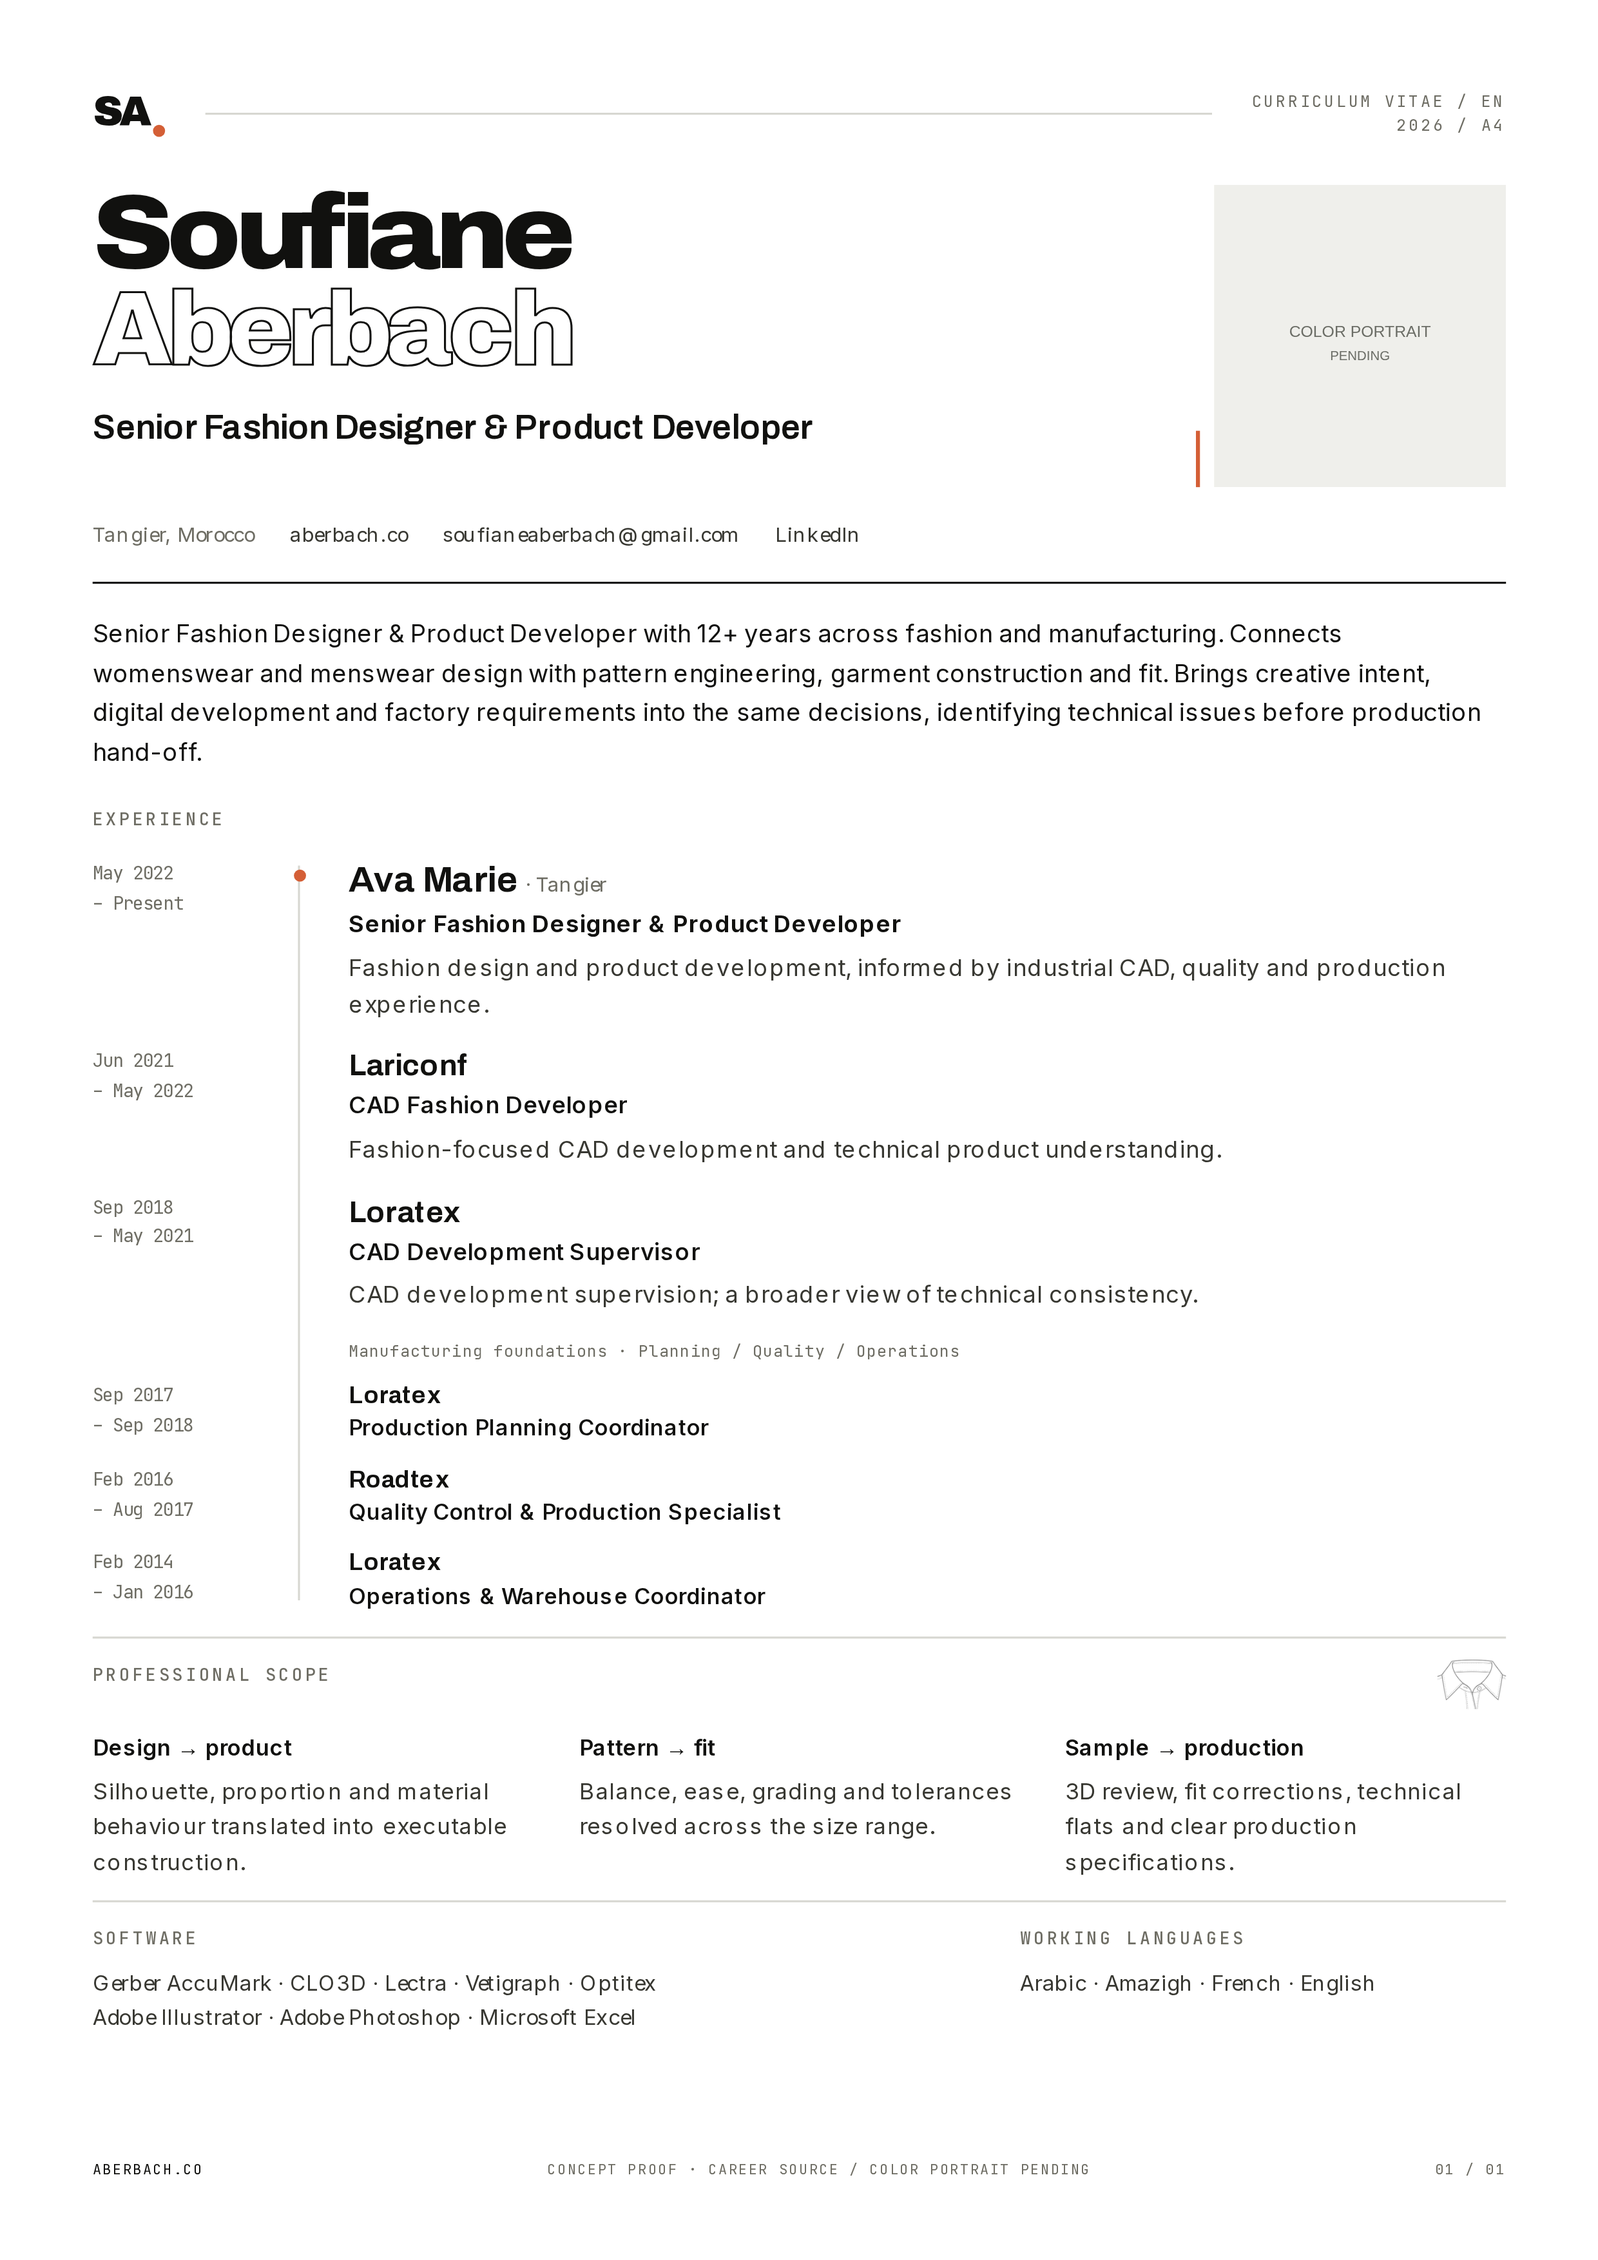
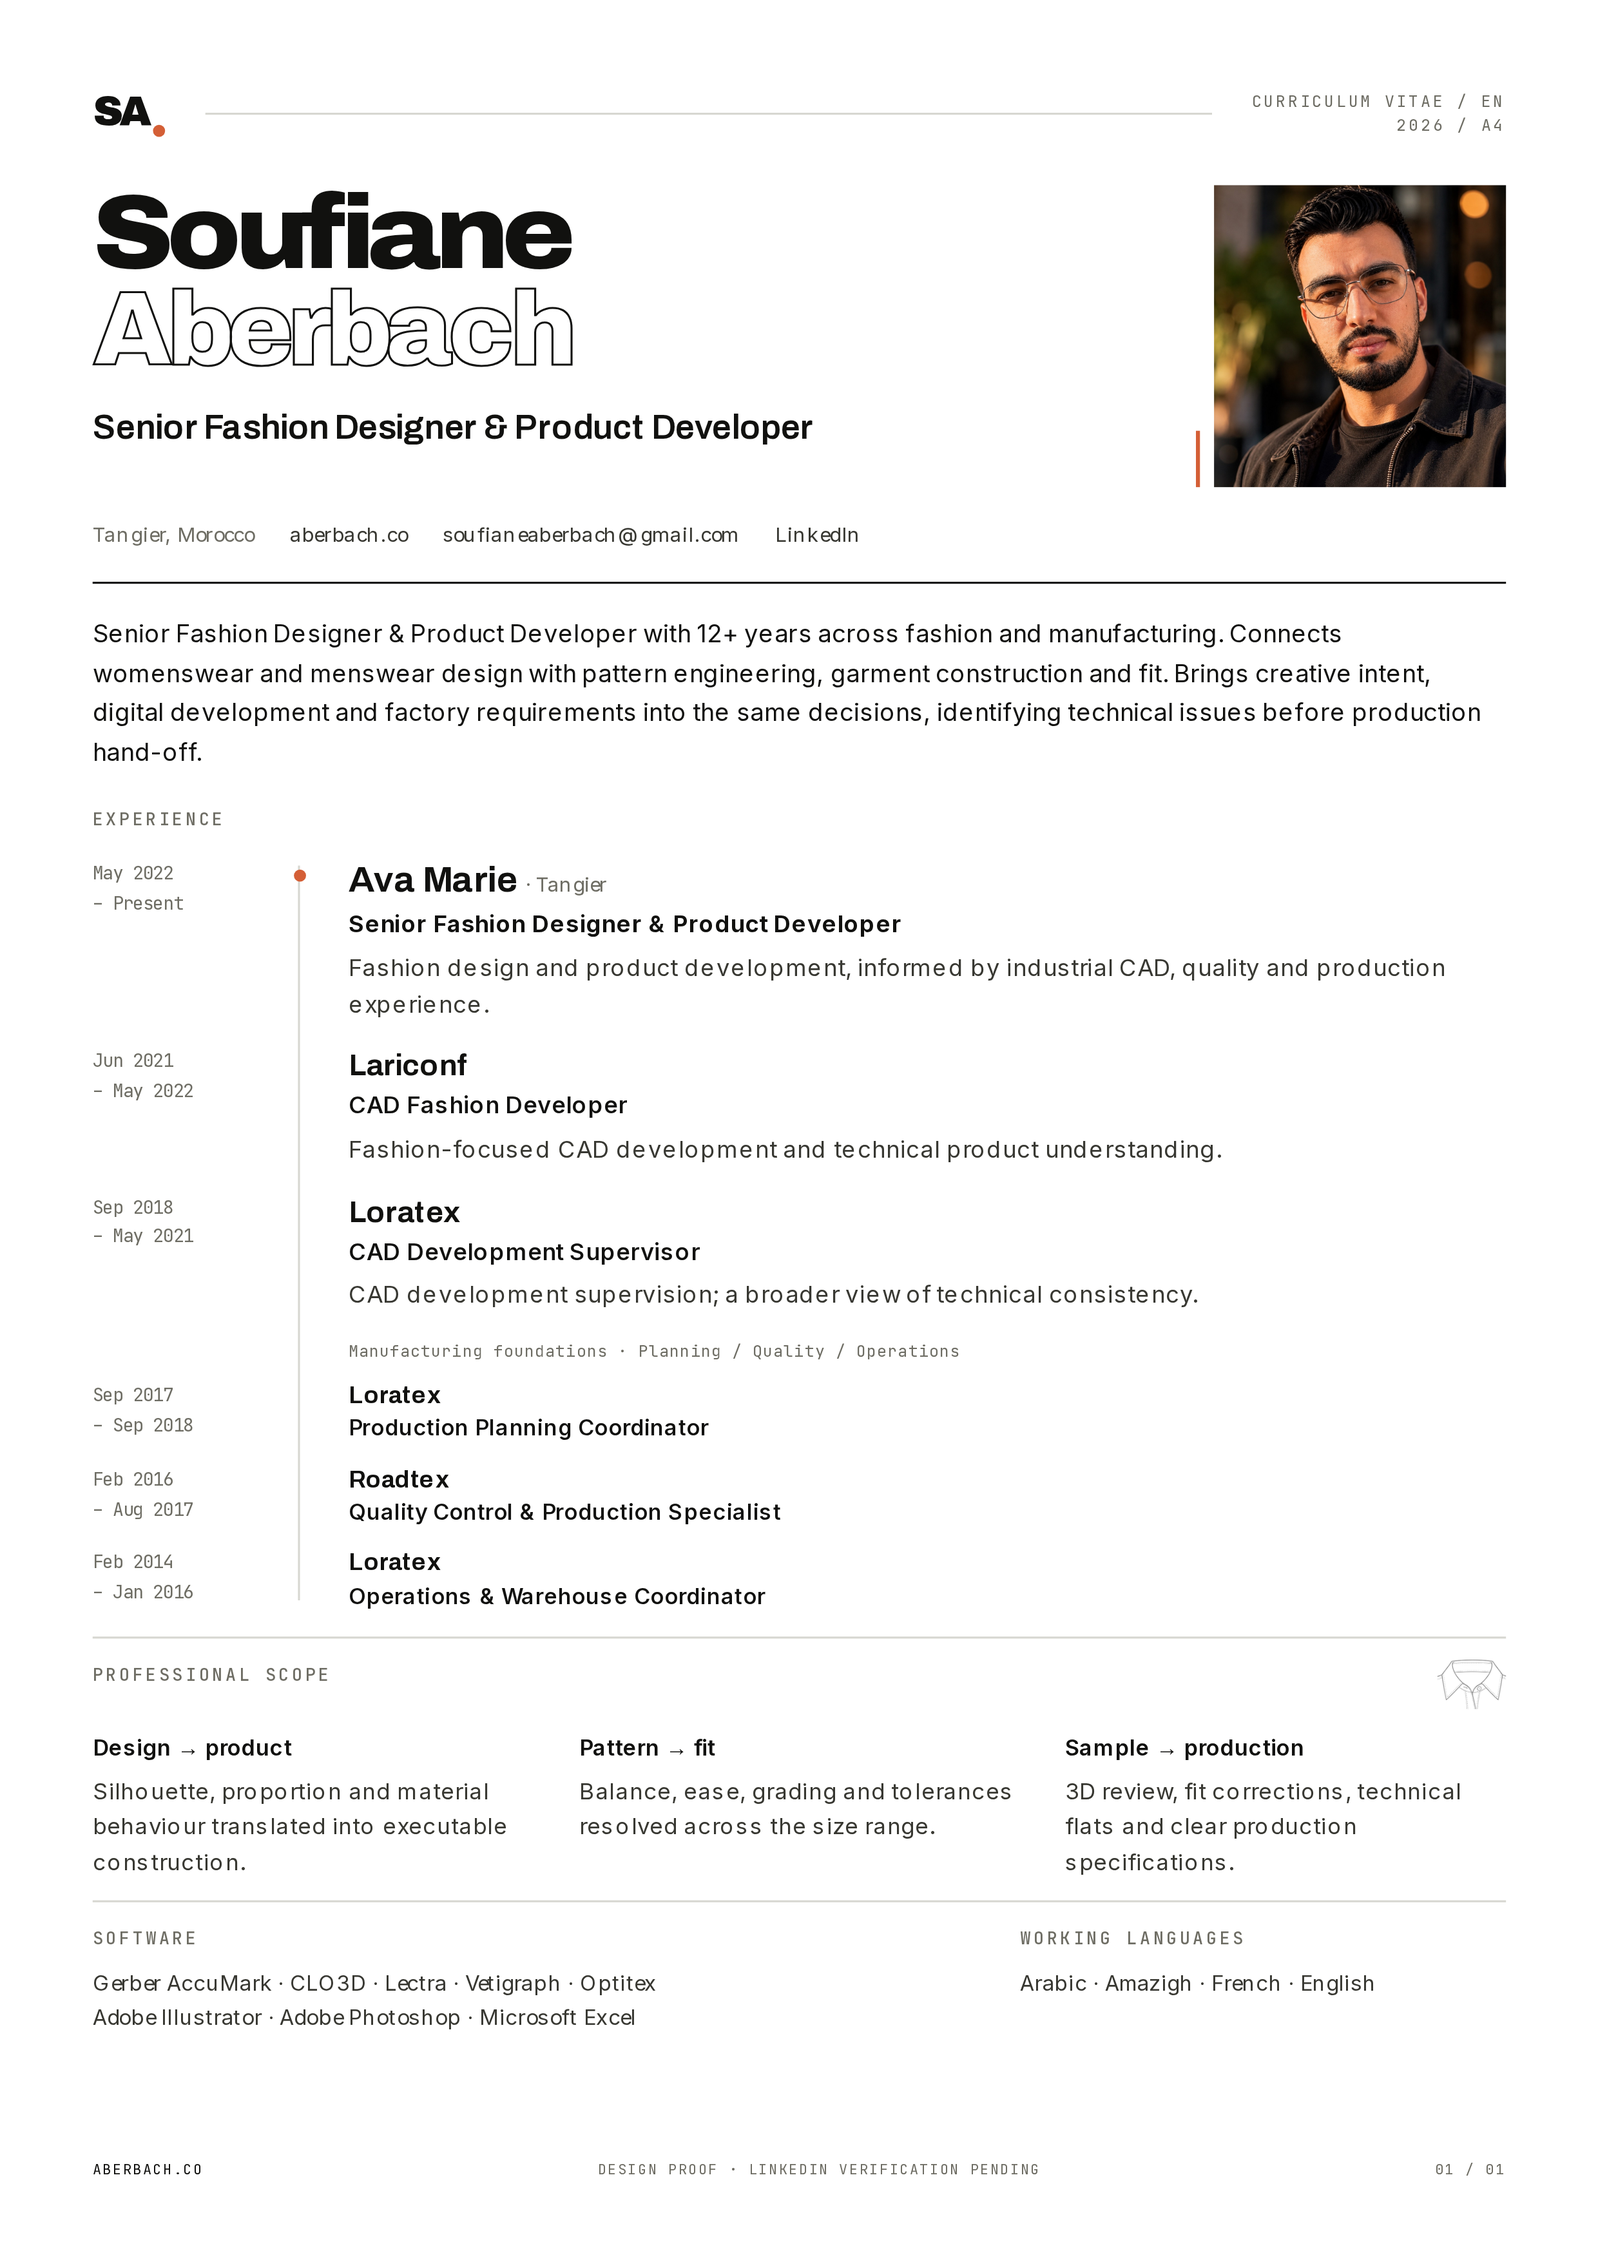
Integrate original color portrait into three editorial CV proofs

Changed region(s): [[0.7452, 0.0621, 0.9625, 0.2175]]

diff --git a/scripts/cv/verify.py b/scripts/cv/verify.py
@@ -10,6 +10,11 @@ from PIL import Image, ImageChops
 
 ROOT = Path(__file__).resolve().parents[2]
 DATA = json.loads((ROOT / 'scripts/cv/career.json').read_text())
+PORTRAIT = json.loads((ROOT / 'scripts/cv/portrait-source.json').read_text())
+portrait_bytes = (ROOT / 'scripts/cv' / PORTRAIT['file']).read_bytes()
+assert hashlib.sha256(portrait_bytes).hexdigest() == PORTRAIT['sourceSHA256'], 'Owner portrait source has changed'
+with Image.open(ROOT / 'scripts/cv' / PORTRAIT['file']) as photo:
+    assert list(photo.size) == PORTRAIT['pixelSize'] and photo.mode == 'RGB'
 parser = argparse.ArgumentParser()
 parser.add_argument('--layout-preview-dir', help='Inspect draft PNG composition only; does not approve release exports')
 args = parser.parse_args()
@@ -42,7 +47,7 @@ portrait_reference = None
 for row in layout:
     lang = row['locale'];stem = row['stem'];g = row['geometry']
     assert row['sourceSHA256']==hashlib.sha256((ROOT/'scripts/cv/career.json').read_bytes()).hexdigest()
-    assert row['portraitSHA256']==hashlib.sha256((ROOT/'scripts/cv/portrait.png').read_bytes()).hexdigest()
+    assert row['portraitSHA256']==PORTRAIT['sourceSHA256']
     assert row['layoutPreview'] is preview
     if not preview:assert row['careerVerified']
     assert abs(g['brand']['width']-36.15625)<.05 and abs(g['brand']['height']-31.1875)<.05,'SA. proportions differ from site reference'
@@ -56,7 +61,7 @@ for row in layout:
         box=(round(p['x']*scale)+4,round(p['y']*scale)+4,round((p['x']+p['width'])*scale)-4,round((p['y']+p['height'])*scale)-4)
         photo=im.crop(box);pixels=list(zip(*(photo.getchannel(c).tobytes() for c in 'RGB')))
         color=sum(max(px)-min(px)>12 for px in pixels)/len(pixels)
-        if not preview: assert color >= .03 and row['portraitColor']['fraction'] >= .03, 'Monochrome portrait is prohibited'
+        assert color >= .03 and row['portraitColor']['fraction'] >= .03, 'Monochrome portrait is prohibited'
         if portrait_reference is None:portrait_reference=photo.tobytes()
         else:assert photo.tobytes()==portrait_reference,'Inconsistent portrait across editions'
         expected_pixels=im.tobytes()
@@ -76,5 +81,5 @@ for row in layout:
             assert text.index('Ava Marie') < text.index('Lariconf') < text.index('Roadtex') and text.count('Loratex')==3
             assert 'Spanish' not in text and 'Espagnol' not in text and 'Español' not in text
             assert page.get_links()
-    print(f'{lang.upper()}: '+('draft A4 composition checked; color portrait still required' if preview else 'A4 /300 DPI/natural-color portrait/exact PDF raster/searchable/chronology — pass'))
+    print(f'{lang.upper()}: '+('draft A4 composition and real color portrait checked; LinkedIn source still required' if preview else 'A4 /300 DPI/natural-color portrait/exact PDF raster/searchable/chronology — pass'))
 print('Layout previews only — not a release approval.' if preview else 'All three redesigned CV editions passed release verification.')

diff --git a/scripts/cv/finalize.py b/scripts/cv/finalize.py
@@ -16,8 +16,9 @@ OUT = ROOT / os.getenv('CV_OUTPUT_DIR', 'public/cv')
 QA = ROOT / os.getenv('CV_QA_DIR', '.qa-director/cv')
 A4 = fitz.Rect(0, 0, 210 / 25.4 * 72, 297 / 25.4 * 72)
 layout = json.loads((QA / 'layout-report.json').read_text())
+portrait = json.loads((ROOT / 'scripts/cv/portrait-source.json').read_text())
 assert len(layout) == 3 and all(not r.get('layoutPreview', True) and r.get('careerVerified',False) and r['portraitColor']['fraction'] >= .03 for r in layout), 'Final PDF requires verified career content and reviewed natural-color PNG editions; previews cannot be published.'
-assert all(r['sourceSHA256']==hashlib.sha256((ROOT/'scripts/cv/career.json').read_bytes()).hexdigest() and r['portraitSHA256']==hashlib.sha256((ROOT/'scripts/cv/portrait.png').read_bytes()).hexdigest() for r in layout), 'Stale career or portrait source; render and inspect fresh PNG masters first.'
+assert all(r['sourceSHA256']==hashlib.sha256((ROOT/'scripts/cv/career.json').read_bytes()).hexdigest() and r['portraitSHA256']==hashlib.sha256((ROOT/'scripts/cv'/portrait['file']).read_bytes()).hexdigest() for r in layout), 'Stale career or portrait source; render and inspect fresh PNG masters first.'
 report = []
 for locale in ['EN', 'FR', 'ES']:
     stem = f'Soufiane-Aberbach-CV-{locale}'

diff --git a/docs/cv-final-2026-10-29/REVIEW.md b/docs/cv-final-2026-10-29/REVIEW.md
@@ -47,7 +47,8 @@ fictional grading system, decorative ruler or new technical drawing is used.
 ## Professional content and LinkedIn verification
 
 The owner has designated [LinkedIn](https://www.linkedin.com/in/soufiane-aberbach-6799b7155)
-as the primary professional source. Direct access returned HTTP 999. A search
+as the primary professional source. Direct access returned HTTP 999, confirmed
+again on 2026-10-30 after the owner's latest instruction. A search
 reader exposed an indexed public version, but its About is truncated and most
 professional fields are hidden. Reactions and posts by other people are excluded.
 
@@ -76,12 +77,20 @@ PDF production reject the pending career-verification state.
 
 ## Portrait status
 
-Accessible attachment directories were inspected. No new original color image
-was available. Only the previous gray derivative remains; its actual pixels were
-checked as monochrome. It is not recolored, refined into a different face or
-passed off as the new photograph. The owner must attach the original color file.
-Proofs show an explicit pending frame and marked footer. No final portrait QA or
-six replacement exports are claimed, and no placeholder is copied into public/.
+The new 2026-10-30 attachment has now been recovered and inspected. The actual
+1166×1280 RGB photograph is stored as `scripts/cv/portrait.jpg`, outside public/.
+Its bytes match the supplied JPEG exactly; `portrait-source.json` records the
+SHA256. The obsolete grayscale source has been removed. No generative retouch,
+recoloring, reshaping, age change or synthetic facial detail was applied. The
+original photograph already provides warm natural light and a clear expression.
+
+The portrait is integrated with the selected editorial window using CSS
+`object-fit:cover; object-position:50% 34%`. This only frames the original image;
+it does not change its pixels or facial structure. The full hairline, glasses,
+eyes and chin remain visible. All three rendered portrait windows are identical,
+and independent checks require actual color in both source and rendered image.
+Proof footers now identify the sole pending input: full LinkedIn verification.
+No placeholders or unverified replacement exports have been copied to public/.
 
 ## Actual visual critique and refinement
 
@@ -98,8 +107,12 @@ removed. Type was not globally shrunk. The motif was moved out of the masthead
 to avoid reading as a second pasted logo. Final proof checks show no clipping,
 correct accents, matching brand geometry and white printer-safe margins.
 
-The technical source crop remains proportional and unmodified. No opinion about
-final portrait integration is possible until the actual photograph is supplied.
+The technical source crop remains proportional and unmodified. On 2026-10-30,
+all three complete proofs were inspected again at native resolution with the
+actual color photograph. The warm portrait supplies a controlled color presence;
+its size supports the name and professional title rather than competing with
+the chronology. Facial features remain intact inside the crop. EN/FR/ES headings,
+accented characters, margins, footer and date rail remain clear, with no overlap.
 Content remains subject to full-profile verification, not visual approval alone.
 
 ## Proofs and verification
@@ -115,6 +128,15 @@ Independent checks cover 2480×3508, 300 DPI, white margins, six provisional rol
 three edition keys, four spoken languages, eight tools, logo proportions,
 construction-source pixels, portrait-frame consistency and overflow. Actual
 source access and layout metrics are recorded in [verification.json](verification.json).
-Release verification, natural-color photo review and PNG/PDF fidelity remain
-blocked by the two missing primary inputs. Existing public download paths and
-site controls are unchanged.
+Composition, source integrity and natural-color portrait integration have been
+checked. Final career verification and release PNG/PDF fidelity remain blocked
+by the missing LinkedIn export. Existing public download paths and site controls
+are unchanged. The proof content is provisional, not an approved professional CV.
+
+On 2026-10-30, the site build passed with 36 pages and the localization suite
+passed 691 checks with zero failures using the pinned browser. The independent
+three-edition proof checks passed. Expected refusals of unverified release,
+public preview output and preview-to-final PDF conversion were also exercised.
+No final CV release test or new PDF accessibility approval is claimed while the
+primary source remains inaccessible. `public/`, `src/`, `worker/` and Cloudflare
+configuration have no changes relative to the preceding creative checkpoint.

diff --git a/scripts/cv/README.md b/scripts/cv/README.md
@@ -2,14 +2,15 @@
 
 The selected design is Concept A / Fashion Editorial, reconstructed from an
 image-generation composition study, then refined with accurate editable type.
-The old CV directions are unapproved. Final release is blocked pending the
-owner's original color portrait and complete LinkedIn career source.
+The old CV directions are unapproved. The owner's original color portrait was
+recovered from the new 2026-10-30 attachment and integrated into all three proofs.
+Final release is blocked only by the missing complete LinkedIn career source.
 
 ## Authoritative content and real assets
 
 `career.json` schema 3 records the exact EN/FR/ES data and its verification state.
 The primary source is the owner's LinkedIn profile. Direct access returned HTTP
-999; the public index only exposes a truncated About and incomplete experience /
+999, rechecked on 2026-10-30; the public index only exposes a truncated About and incomplete experience /
 education. Therefore `authoritativeSource.status` is pending, not verified.
 Six historical roles/dates from the site are provisional until comparison with
 the full profile export. Education, qualifications and certifications are not
@@ -37,10 +38,14 @@ flat. `construction-detail-source.json` pins the source hash and crop; verificat
 checks pixel equality. It is a discreet construction signature, never evidence of
 employment, a named project or a fictional new pattern.
 
-`portrait.png` still contains only the old monochrome derivative. It is never
-used for final production or synthetically recolored. The original photo must be
-reattached. Original attachments stay outside public/; a shared natural-color
-crop is prepared without changing facial geometry or adding generated detail.
+`portrait.jpg` is the owner's actual 1166×1280 color attachment, byte for byte.
+`portrait-source.json` records its hash, dimensions and treatment. No exposure,
+color, skin, facial geometry or generated detail has been changed. The supplied
+photograph already has strong natural lighting; its original color is retained.
+Framing is entirely a CSS layout crop, shared across editions. This source is
+outside public/; visitors receive only the composed document. The unused gray
+source has been removed. The renderer refuses any source-hash mismatch or
+monochrome input, including for design proofs.
 
 ## Image-first release
 
@@ -48,8 +53,8 @@ Use the pinned Playwright/browser and committed font fixtures, with the existing
 Pillow/PyMuPDF requirements. No external font download or new app package.
 
 ```sh
-# Only after complete career-source verification and receipt of the real photo:
-node scripts/cv/render.mjs --prepare-portrait /path/to/original-color-photo.jpg
+# Only after complete career-source verification:
+node scripts/cv/render.mjs
 # Inspect all three native 2480×3508 PNGs, content and portrait before conversion.
 python3 scripts/cv/finalize.py
 npm run test:cv
@@ -77,8 +82,9 @@ node scripts/cv/render.mjs --layout-preview
 python3 scripts/cv/verify.py --layout-preview-dir .qa-director/cv-final/preview
 ```
 
-Preview mode is barred from public/. It labels the portrait area and footer as
-pending, and can never pass release PDF conversion. It proves composition only.
+Preview mode is barred from public/. It uses the real color photo and labels the
+footer as pending LinkedIn verification. It can never pass release PDF conversion.
+It proves composition and portrait integration, not professional-source approval.
 Use `CHROMIUM_PATH` solely for an appropriate fallback browser; exact-brand QA
 uses the repository's pinned browser and fonts.
 
